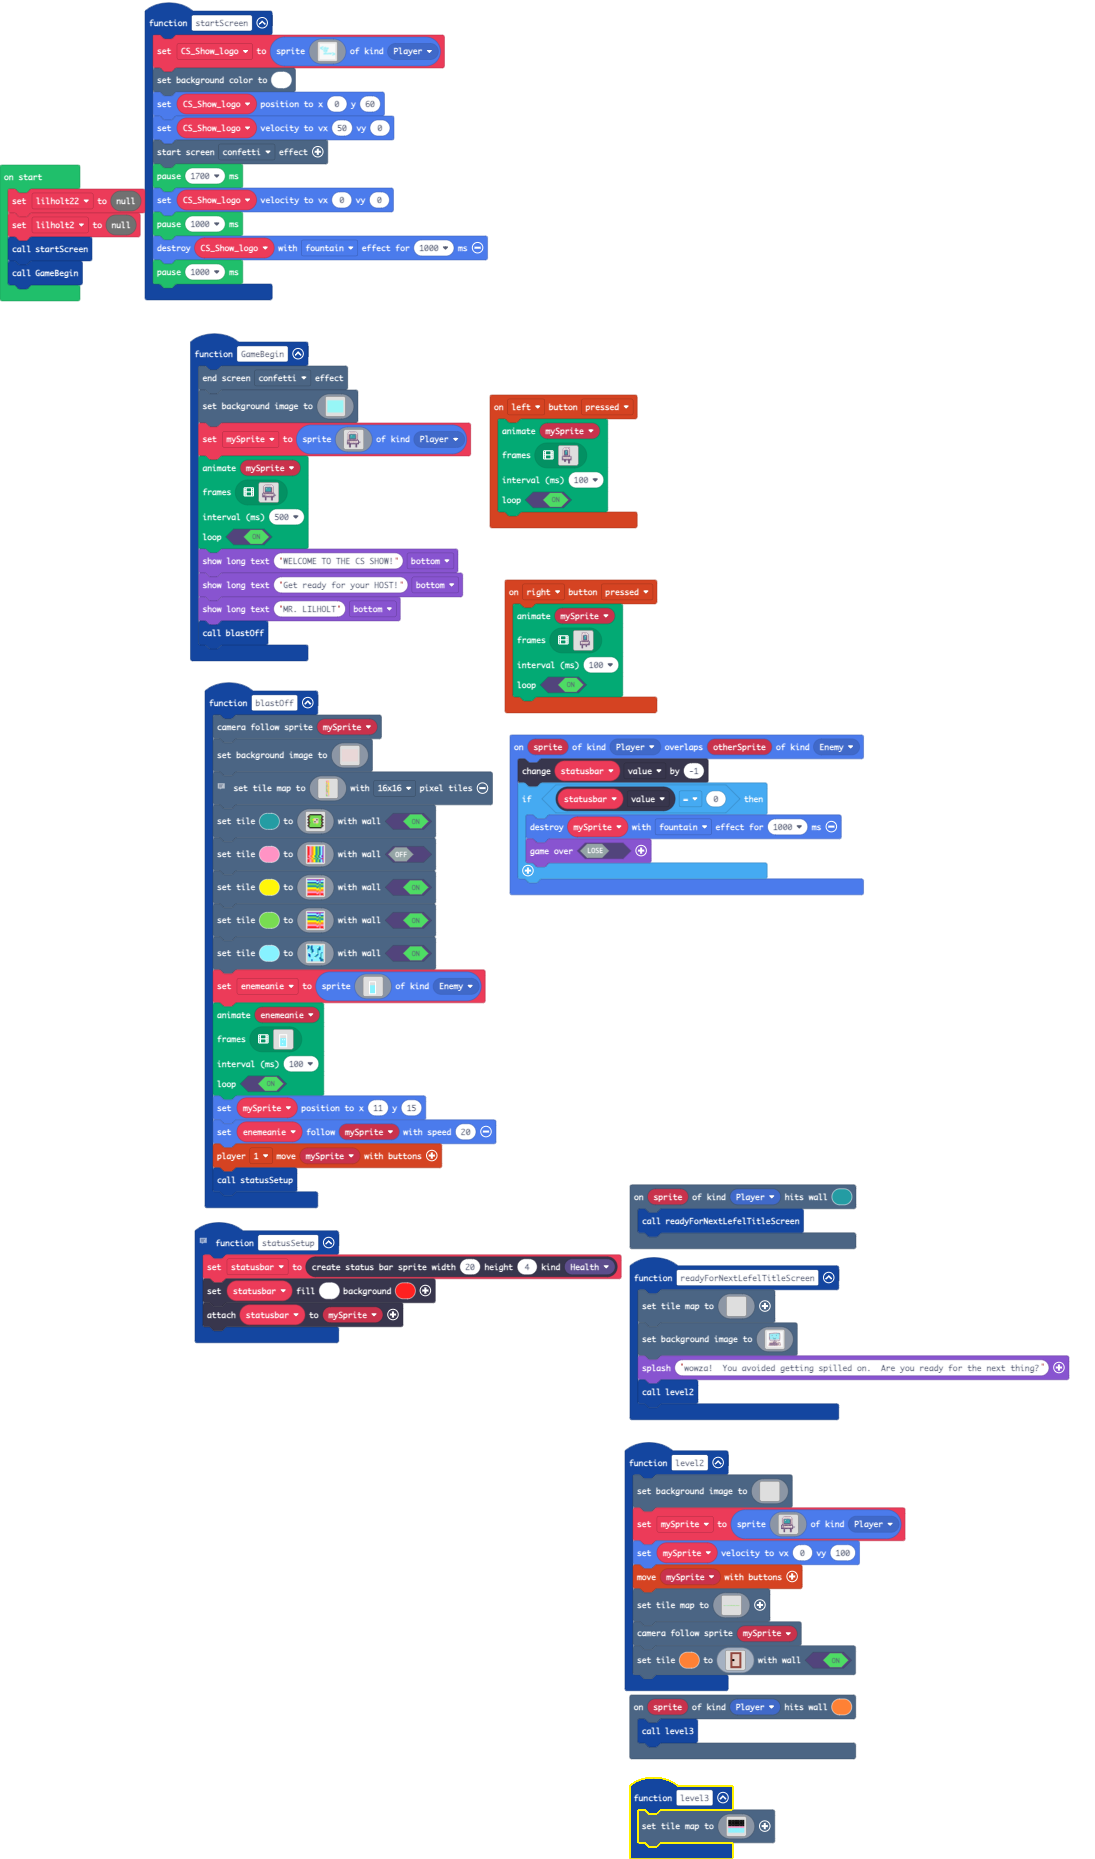
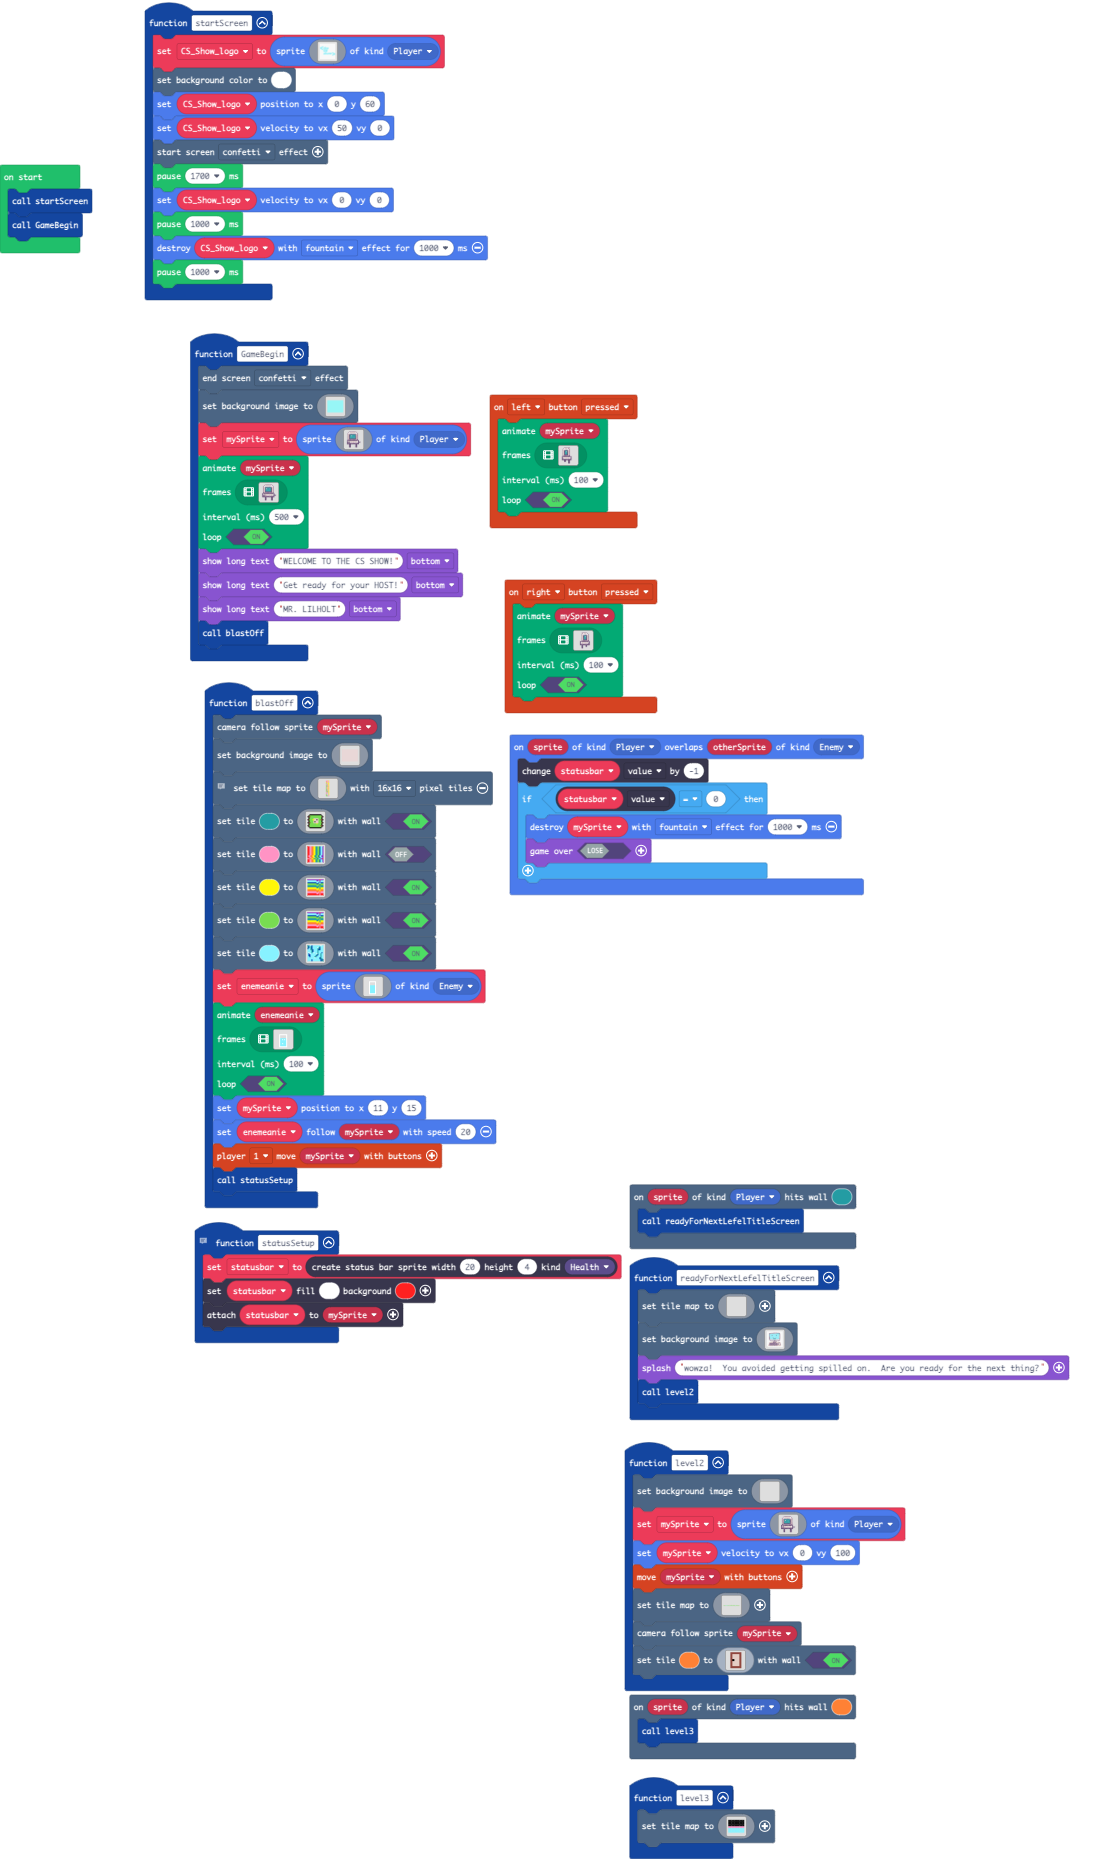
Update main.blocks, main.ts

Changed region(s): [[0.0, 0.0936, 0.1553, 0.1872], [0.5589, 0.9672, 0.6831, 1.0]]

diff --git a/main.ts b/main.ts
@@ -1108,7 +1108,5 @@ let enemeanie: Sprite = null
 let CS_Show_logo: Sprite = null
 let mySprite: Sprite = null
 let statusbar: StatusBarSprite = null
-let lilholt22 = null
-let lilholt2 = null
 startScreen()
 GameBegin()
